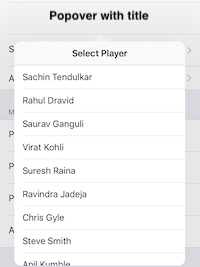
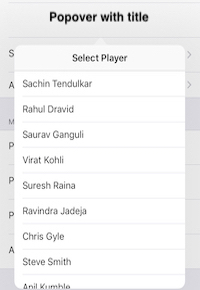
- Version 5.3.2 -> #56 Popover with title fixed.

diff --git a/RSSelectionMenu/RSSelectionMenu/Source/RSSelectionMenuController.swift b/RSSelectionMenu/RSSelectionMenu/Source/RSSelectionMenuController.swift
@@ -155,9 +155,7 @@ open class RSSelectionMenu<T>: UIViewController, UIPopoverPresentationController
         }
         
         // navigation bar theme
-        if let theme = navigationBarTheme {
-            setNavigationBarTheme(theme)
-        }
+        setNavigationBarTheme()
     }
     
     override open func viewDidLayoutSubviews() {
@@ -350,6 +348,7 @@ extension RSSelectionMenu {
             tobePresentController = UINavigationController(rootViewController: self)
         }
         else if case let .Popover(sourceView, size) = with {
+            tobePresentController = UINavigationController(rootViewController: self)
             tobePresentController.modalPresentationStyle = .popover
             if size != nil { tobePresentController.preferredContentSize = size! }
             
@@ -403,13 +402,21 @@ extension RSSelectionMenu {
     }
     
     // navigation bar
-    fileprivate func setNavigationBarTheme(_ theme: NavigationBarTheme) {
-        if let navigationBar = self.navigationBar {
+    fileprivate func setNavigationBarTheme() {
+        guard let navigationBar = self.navigationBar else { return }
+        
+        guard let theme = self.navigationBarTheme else {
             
-            navigationBar.barTintColor = theme.color
-            navigationBar.tintColor = theme.tintColor ?? UIColor.white
-            navigationItem.title = theme.title
-            navigationBar.titleTextAttributes = theme.attributes
+            // hide navigationbar for popover, if no title present
+            if case .Popover = self.menuPresentationStyle {
+                navigationBar.isHidden = true
+            }
+            return
         }
+        
+        navigationBar.barTintColor = theme.color
+        navigationBar.tintColor = theme.tintColor ?? UIColor.white
+        navigationItem.title = theme.title
+        navigationBar.titleTextAttributes = theme.attributes
     }
 }

diff --git a/RSSelectionMenuExample/RSSelectionMenuExample/SingleSelectionHandler.swift b/RSSelectionMenuExample/RSSelectionMenuExample/SingleSelectionHandler.swift
@@ -103,6 +103,9 @@ extension ViewController {
             self.selectedDataArray = selectedItems
         }
         
+        // title
+        menu.setNavigationBar(title: "Select Player")
+        
         // on dissmis
         menu.onDismiss = { selectedItems in
             

diff --git a/README.md b/README.md
@@ -2,15 +2,16 @@
 
 An elegant selection list or dropdown menu for iOS with single or multiple selections.
 
-### What's New in version 5.3.1
-
+### What's New in version 5.3.2
+- New presentation styles added: **Alert** & **Actionsheet**
+- Show title with Popover
+- Auto Dismiss flag added (True or False)
 - Support for Swift 4.2
 - Carthage support
-- New presentation styles added: **Alert** & **Actionsheet**
-- Auto Dismiss flag added (True or False)
 
 ![Alt text](https://raw.githubusercontent.com/rushisangani/RSSelectionMenu/master/Images/Alert.png "Alert")
 ![Alt text](https://raw.githubusercontent.com/rushisangani/RSSelectionMenu/master/Images/Actionsheet.png "Actionsheet")
+![Alt text](https://raw.githubusercontent.com/rushisangani/RSSelectionMenu/master/Images/Popover.jpg "Popover")
 
 ![Alt text](https://raw.githubusercontent.com/rushisangani/RSSelectionMenu/master/Images/01.gif "Single Selection")
 ![Alt text](https://raw.githubusercontent.com/rushisangani/RSSelectionMenu/master/Images/03.gif "Custom")
@@ -52,7 +53,7 @@ iOS 9.0+ | Xcode 8.3+ | Swift 3.0+
 ### CocoaPods
 
 ```ruby
-pod 'RSSelectionMenu' or pod 'RSSelectionMenu', '~> 5.3.1'
+pod 'RSSelectionMenu' or pod 'RSSelectionMenu', '~> 5.3.2'
 ```
 
 ### Carthage
@@ -69,7 +70,7 @@ $ brew install carthage
 To integrate RSSelectionMenu into your Xcode project using Carthage, specify it in your `Cartfile`:
 
 ```ogdl
-github "rushisangani/RSSelectionMenu" ~> 5.3.1
+github "rushisangani/RSSelectionMenu" ~> 5.3.2
 ```
 Then follow below steps:
 - Run `carthage update` to build the framework.
